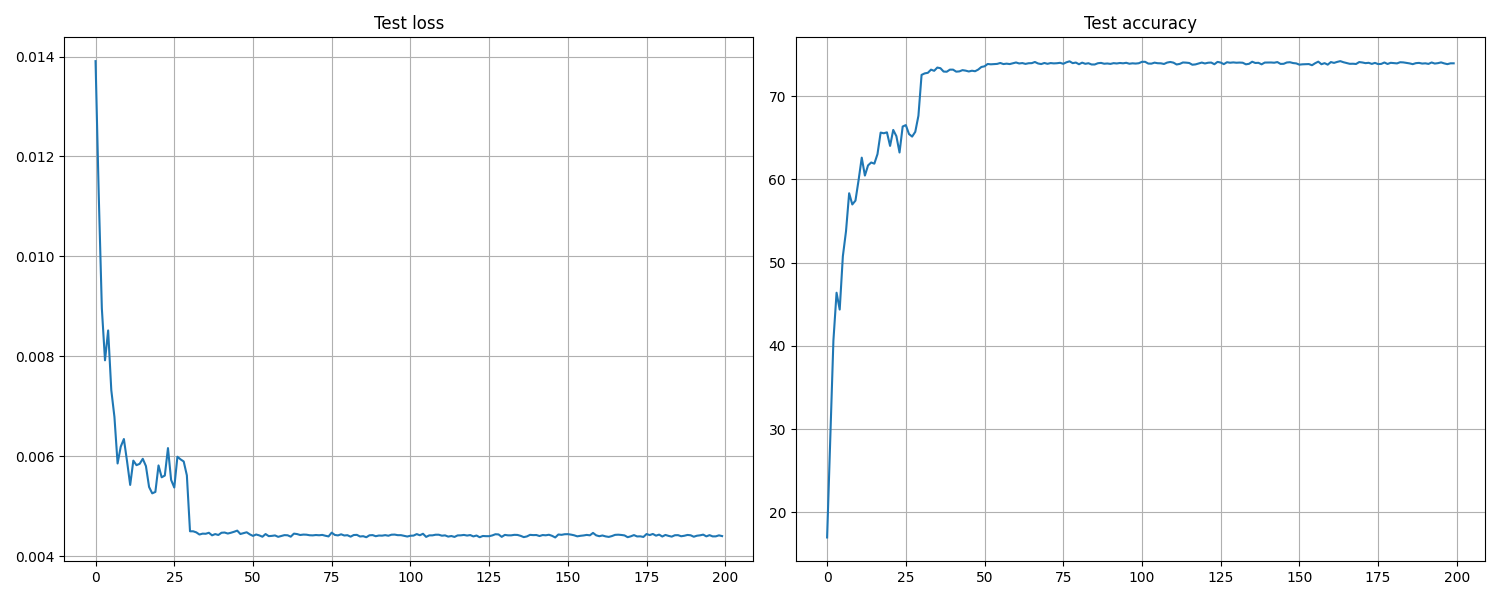
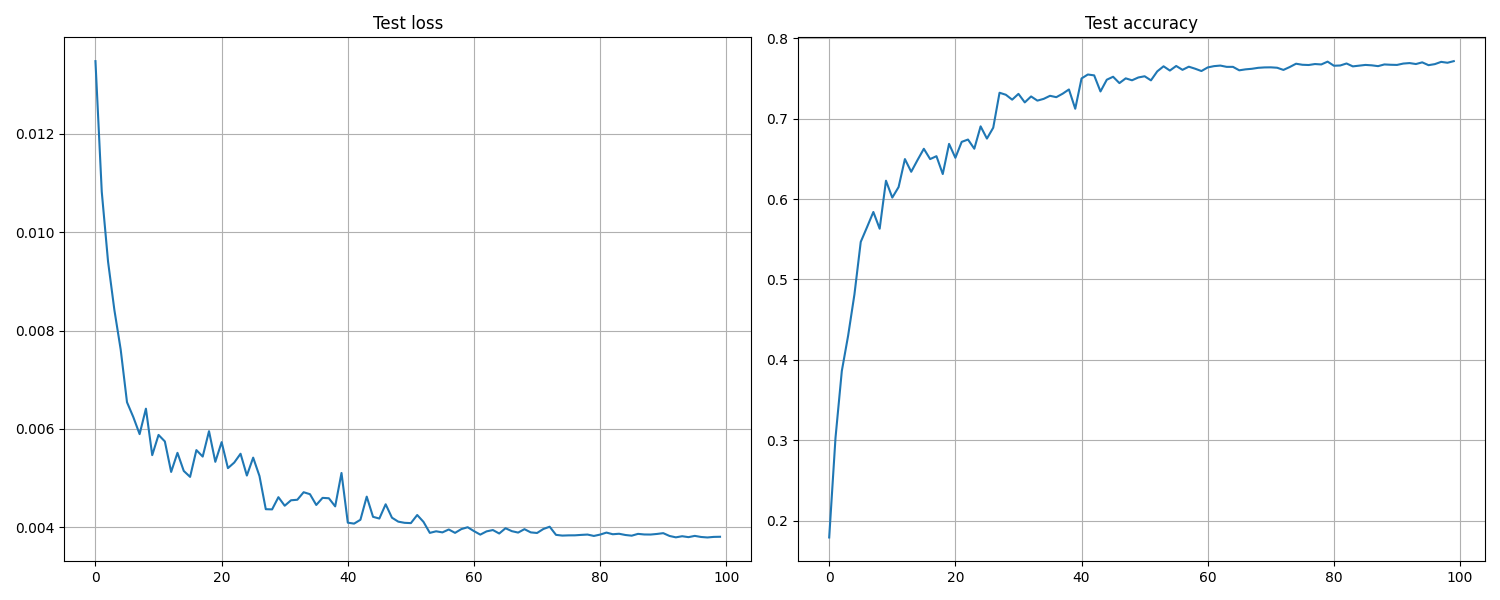
modified some files

diff --git a/vision/models/resnet.py b/vision/models/resnet.py
@@ -17,24 +17,31 @@ class ResNet(nn.Module):
             num_classes = 1000
         
         feat1 = 96
-        feat2, feat3, feat4, feat5, feat6, feat7, feat8 = 96, 96, 96, 96, 96, 96, 96
-        feat9, feat10, feat11, feat12, feat13, feat14, feat15, feat16 = 192, 192, 192, 192, 192, 192, 192, 192
+        feat2, feat3, feat4, feat5, feat6, feat7, feat8 = 128, 128, 128, 128, 128, 128, 128
+        feat9, feat10, feat11, feat12, feat13, feat14, feat15, feat16 = 256, 256, 256, 256, 256, 256, 256, 256
         feat17, feat18, feat19, feat20, feat21, feat22, feat23, feat24, feat25, feat26 = 384, 384, 384, 384, 384, 512, 512, 512, 512, 512
-        feat27, feat28, feat29, feat30, feat31 = 1024, 1024, 1024, 1024, 1024
+        feat27, feat28, feat29, feat30, feat31 = 512, 512, 512, 512, 512
         
-        feat61, feat71 = 96, 96
-        feat141, feat151 = 192, 192
+        feat61, feat71 = 128, 128
+        feat141, feat151 = 256, 256
         feat241, feat251 = 512, 512
         feat301, feat311 = 1024, 1024
         
-        self.conv1 = nn.Sequential(
-            nn.Conv2d(in_channels=3, out_channels=feat1, kernel_size=3, stride=2, padding=1, bias=False),
-            nn.BatchNorm2d(num_features=feat1),
-            nn.ReLU(),
-            nn.Conv2d(in_channels=feat1, out_channels=feat1, kernel_size=3, stride=1, padding=1, bias=False),
-            nn.BatchNorm2d(num_features=feat1),
-            nn.ReLU()
-        )
+        if cfg.decompose:
+            self.conv1 = nn.Sequential(
+                nn.Conv2d(in_channels=3, out_channels=feat1, kernel_size=3, stride=2, padding=1, bias=False),
+                nn.BatchNorm2d(num_features=feat1),
+                nn.ReLU(),
+                nn.Conv2d(in_channels=feat1, out_channels=feat1, kernel_size=3, stride=1, padding=1, bias=False),
+                nn.BatchNorm2d(num_features=feat1),
+                nn.ReLU()
+            )
+        else:
+            self.conv1 = nn.Sequential(
+                nn.Conv2d(in_channels=3, out_channels=feat1, kernel_size=7, stride=2, padding=3, bias=False),
+                nn.BatchNorm2d(num_features=feat1),
+                nn.ReLU()
+            )
         self.pool1 = nn.MaxPool2d(kernel_size=2, stride=2)
         
         self.res1 = ResBlock(in_channels=feat1, intermediate=feat2, out_channels=feat3)
@@ -61,21 +68,21 @@ class ResNet(nn.Module):
         self.res13 = ResBlock(in_channels=feat251, intermediate=feat26, out_channels=feat27, shortcut=cfg.shortcut)
         self.res14 = ResBlock(in_channels=feat27, intermediate=feat28, out_channels=feat29)
         self.res15 = ResBlock(in_channels=feat29, intermediate=feat30, out_channels=feat31)
-        self.res151 = ResBlock(in_channels=feat31, intermediate=feat301, out_channels=feat311)
+        # self.res151 = ResBlock(in_channels=feat31, intermediate=feat301, out_channels=feat311)
         self.pool5 = nn.MaxPool2d(kernel_size=2, stride=2)
         
         self.avgpool = nn.AdaptiveAvgPool2d(output_size=(1, 1))
         
         if cfg.multihead:
             self.fc = nn.Sequential(
-                nn.Linear(feat311, out_features=cfg.head_size1),
+                nn.Linear(feat31, out_features=cfg.head_size1),
                 nn.Dropout(p=cfg.drop_fc),
                 nn.Linear(cfg.head_size1, out_features=num_classes)
             )
         else:
             self.fc = nn.Sequential(
                 nn.Dropout(p=cfg.drop_fc),
-                nn.Linear(feat311, out_features=num_classes)
+                nn.Linear(feat31, out_features=num_classes)
             )
             
     def forward(self, x):
@@ -85,14 +92,14 @@ class ResNet(nn.Module):
         x = self.res1(x)
         x = self.res2(x)
         x = self.res3(x)
-        # x = self.res31(x)
+        x = self.res31(x)
         x = self.pool2(x)
         
         x = self.res4(x)
         x = self.res5(x)
         x = self.res6(x)
         x = self.res7(x)
-        # x = self.res71(x)
+        x = self.res71(x)
         x = self.pool3(x)
         
         x = self.res8(x)
@@ -100,7 +107,7 @@ class ResNet(nn.Module):
         x = self.res10(x)
         x = self.res11(x)
         x = self.res12(x)
-        # x = self.res121(x)
+        x = self.res121(x)
         x = self.pool4(x)
         
         x = self.res13(x)

diff --git a/vision/main.py b/vision/main.py
@@ -8,6 +8,7 @@ import torch.nn as nn
 import torch.nn.functional as F
 from torch.utils.data import DataLoader
 import matplotlib.pyplot as plt
+from torchinfo import summary
 from models import get_model
 
 
@@ -122,6 +123,13 @@ if __name__ == "__main__":
     scheduler = torch.optim.lr_scheduler.ReduceLROnPlateau(optimizer, factor=cfg.factor, patience=cfg.patience)
     criterion = nn.CrossEntropyLoss(label_smoothing=cfg.label_smoothing)
     
+    ## print model info
+    model_summary = summary(
+            model=model, 
+            verbose=1 # 0 : no output / 1 : print model summary / 2 : full detail(weight, bias layers)
+    )
+    print(model_summary)
+    
     ## training
     accs = np.zeros(shape=EPOCHS)
     losses = np.zeros(shape=EPOCHS)
@@ -152,9 +160,7 @@ if __name__ == "__main__":
         print(f"\tLast LR: {scheduler.state_dict()['_last_lr'][-1]} \n")
         
         if cfg.use_wandb:
-            wandb.log({"acc": test_accuracy}, commit=False)
-            wandb.log({"loss": test_loss})
-            wandb.log({"learning rate": scheduler.state_dict()['_last_lr'][-1]})
+            wandb.log({"acc": test_accuracy, "loss": test_loss, "learning rate": scheduler.state_dict()['_last_lr'][-1]})
         
     ## plot save
     if cfg.save_plot:
@@ -171,4 +177,4 @@ if __name__ == "__main__":
         plt.grid(True)
         
         plt.tight_layout()
-        plt.savefig(f"plots/{cfg.dataset}_{model_name}_{cfg.bs}.png")
+        plt.savefig(f"./plots/{cfg.dataset}_{model_name}_{cfg.bs}.png")

diff --git a/vision/util.py b/vision/util.py
@@ -49,6 +49,10 @@ class CustomDataset(Dataset):
         elif cfg.dataset == "cifar100":
             self.data = datasets.CIFAR100(root=data_dir, train=train, download=True)
         elif cfg.dataset == "imagenet":
+            if train:
+                train = 'train'
+            else:
+                train = 'test'
             self.data = datasets.ImageNet(root=data_dir, train=train, download=True)
         self.prob = prob
 

diff --git a/vision/cfg.py b/vision/cfg.py
@@ -16,6 +16,7 @@ def get_cfg():
     parser.add_argument("--multihead", action='store_true')
     parser.add_argument("--save_model", action='store_true')
     parser.add_argument("--patience", type=int, default=10)
+    parser.add_argument("--decompose", action='store_true')
     
     ## arguments for data augmentation
     augarg = partial(parser.add_argument, type=float)
